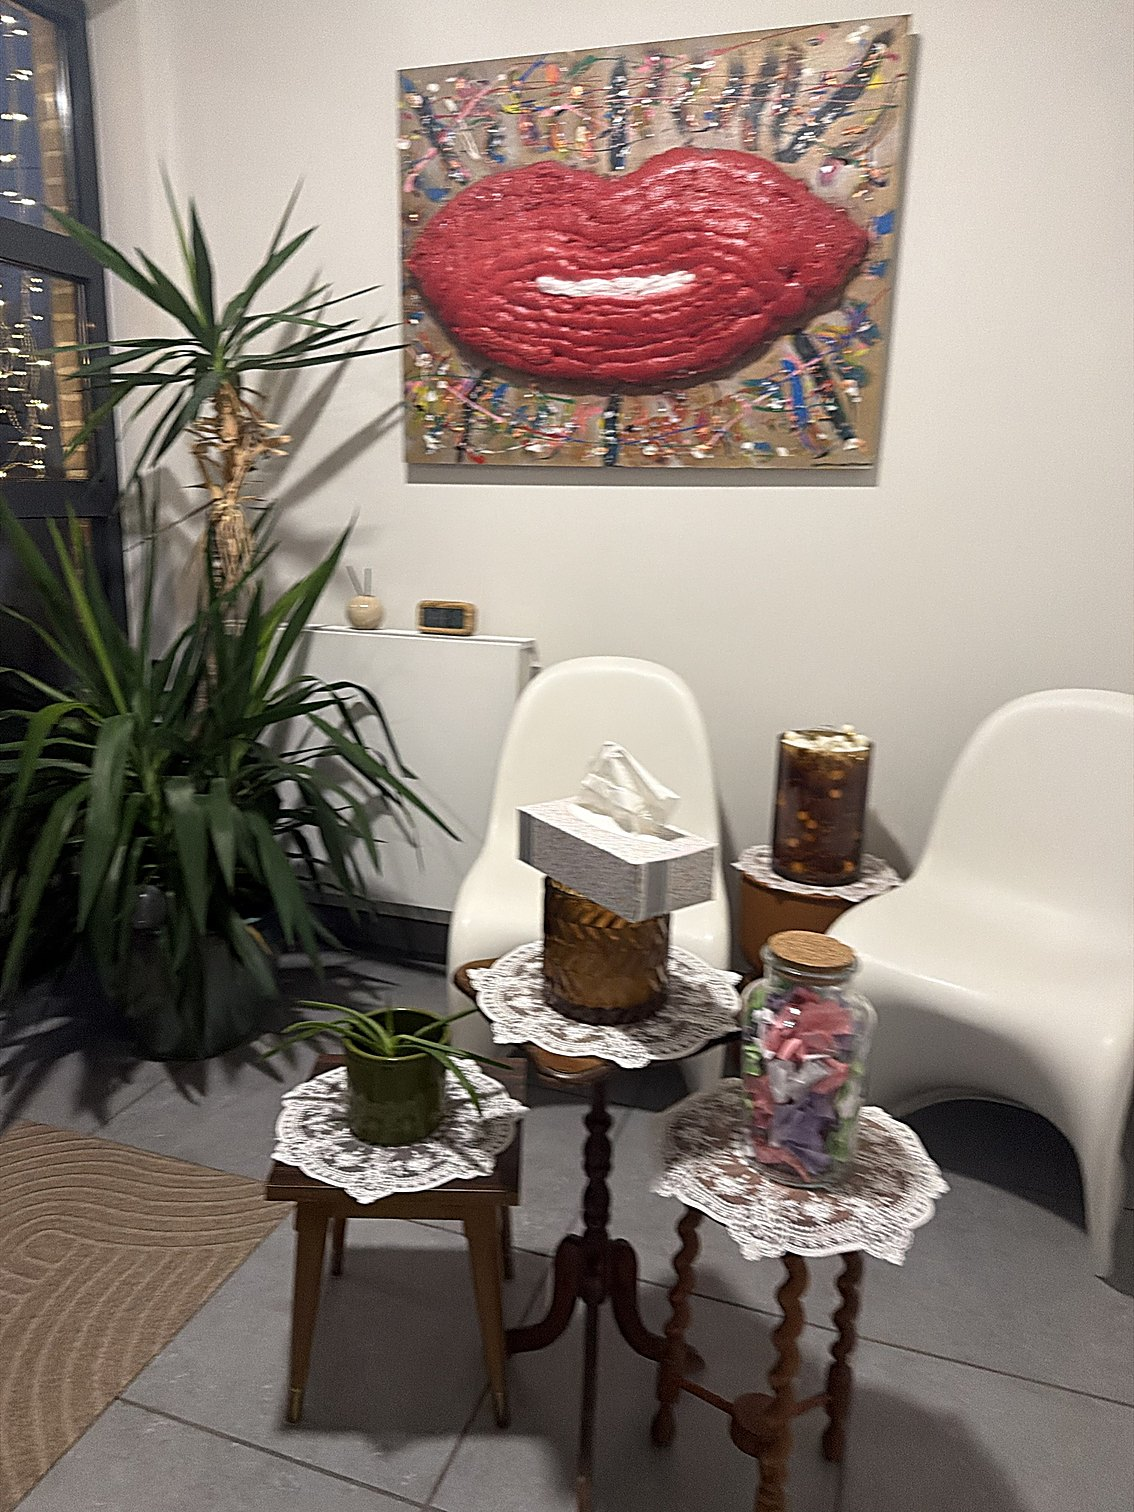
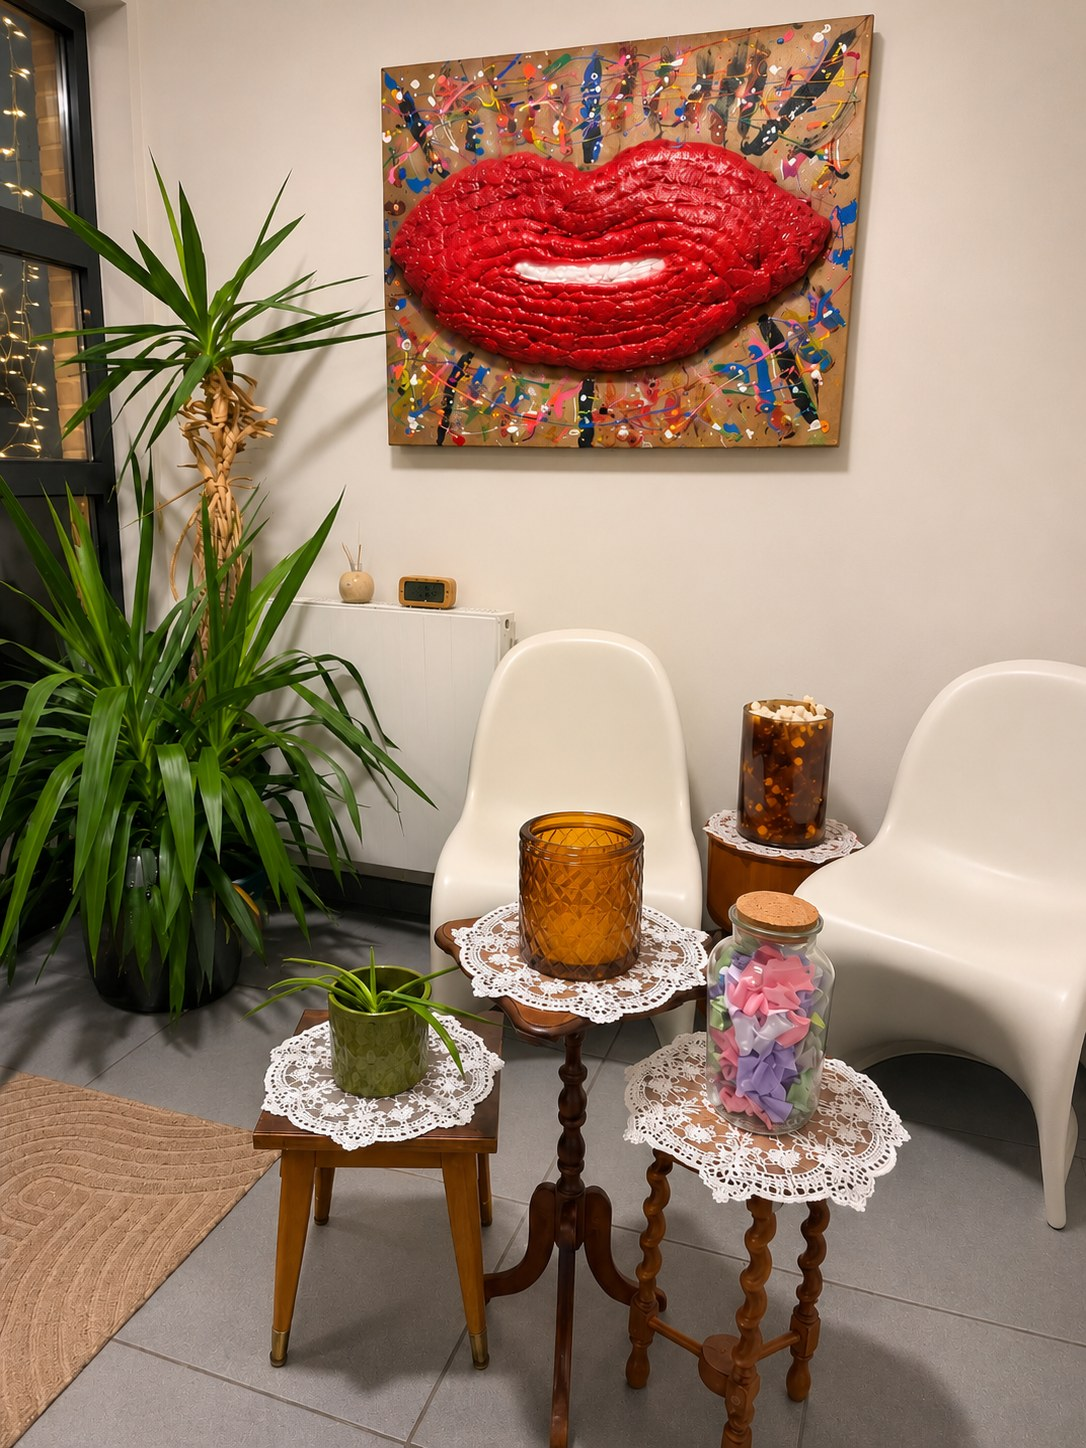
Praktijk: nieuwe, scherpe foto
Claude-Session: https://claude.ai/code/session_01EGV5MVCHsQKZZ71Wdcd441

diff --git a/index.html b/index.html
@@ -293,7 +293,7 @@ html{scroll-behavior:auto}
 </ul>
 </div>
 <div class="plek-media" style="position: relative; padding-bottom: clamp(48px, 6vw, 80px)">
-<div role="img" aria-label="De praktijk van Nuance in Bilzen-Hoeselt" style="position: relative; aspect-ratio: 3 / 4; max-height: 640px; margin-left: auto; width: min(100%, 480px); overflow: hidden"><img src="assets/praktijk.jpg" alt="" style="position: absolute; inset: 0; width: 100%; height: 100%; object-fit: cover; object-position: 50% 55%; display: block" data-ei="i3c3662be58"></div>
+<div role="img" aria-label="De praktijk van Nuance in Bilzen-Hoeselt" style="position: relative; aspect-ratio: 3 / 4; max-height: 640px; margin-left: auto; width: min(100%, 480px); overflow: hidden"><img src="assets/praktijk.jpg" alt="" style="position: absolute; inset: 0; width: 100%; height: 100%; object-fit: cover; object-position: 50% 50%; display: block" data-ei="i3c3662be58"></div>
 <figure class="plek-quote" style="position: absolute; left: clamp(-28px, -2vw, -8px); bottom: 0; width: min(80%, 360px); margin: 0; display: flex; flex-direction: column; gap: 12px; box-sizing: border-box; padding: 22px 24px; border-radius: 20px; background: #3E2A35; color: #EAE3DA; box-shadow: 0 24px 48px -24px rgba(30,18,24,0.7)">
 <img src="assets/mark-licht.png" alt="" style="height: 30px; width: auto; align-self: flex-start" data-ei="i5f0b341dd4">
 <blockquote style="margin: 0; font-family: 'Playfair Display', Georgia, serif; font-style: italic; font-size: 1.08rem; line-height: 1.5" data-ek="t8f7c9dee48">“Je hoeft niet alles alleen te dragen. Soms begint een nieuwe stap bij iemand die echt luistert.”</blockquote>

diff --git a/design/Main.dc.html b/design/Main.dc.html
@@ -314,7 +314,7 @@ html{scroll-behavior:auto}
 </ul>
 </div>
 <div class="plek-media" style="position: relative; padding-bottom: clamp(48px, 6vw, 80px)">
-<div role="img" aria-label="De praktijk van Nuance in Bilzen-Hoeselt" style="position: relative; aspect-ratio: 3 / 4; max-height: 640px; margin-left: auto; width: min(100%, 480px); overflow: hidden"><img src="/_blob/b617253c2b28fd78b4fd7be042a3aa8a" alt="" style="position: absolute; inset: 0; width: 100%; height: 100%; object-fit: cover; object-position: 50% 55%; display: block"></div>
+<div role="img" aria-label="De praktijk van Nuance in Bilzen-Hoeselt" style="position: relative; aspect-ratio: 3 / 4; max-height: 640px; margin-left: auto; width: min(100%, 480px); overflow: hidden"><img src="/_blob/00ac29f5305c70ce2e6de0c75b31f4c6" alt="" style="position: absolute; inset: 0; width: 100%; height: 100%; object-fit: cover; object-position: 50% 50%; display: block"></div>
 <figure class="plek-quote" style="position: absolute; left: clamp(-28px, -2vw, -8px); bottom: 0; width: min(80%, 360px); margin: 0; display: flex; flex-direction: column; gap: 12px; box-sizing: border-box; padding: 22px 24px; border-radius: 20px; background: #3E2A35; color: #EAE3DA; box-shadow: 0 24px 48px -24px rgba(30,18,24,0.7)">
 <img src="/_blob/966af61faca2ed2f295f0c94716c0dcc" alt="" style="height: 30px; width: auto; align-self: flex-start">
 <blockquote style="margin: 0; font-family: 'Playfair Display', Georgia, serif; font-style: italic; font-size: 1.08rem; line-height: 1.5">“Je hoeft niet alles alleen te dragen. Soms begint een nieuwe stap bij iemand die echt luistert.”</blockquote>
